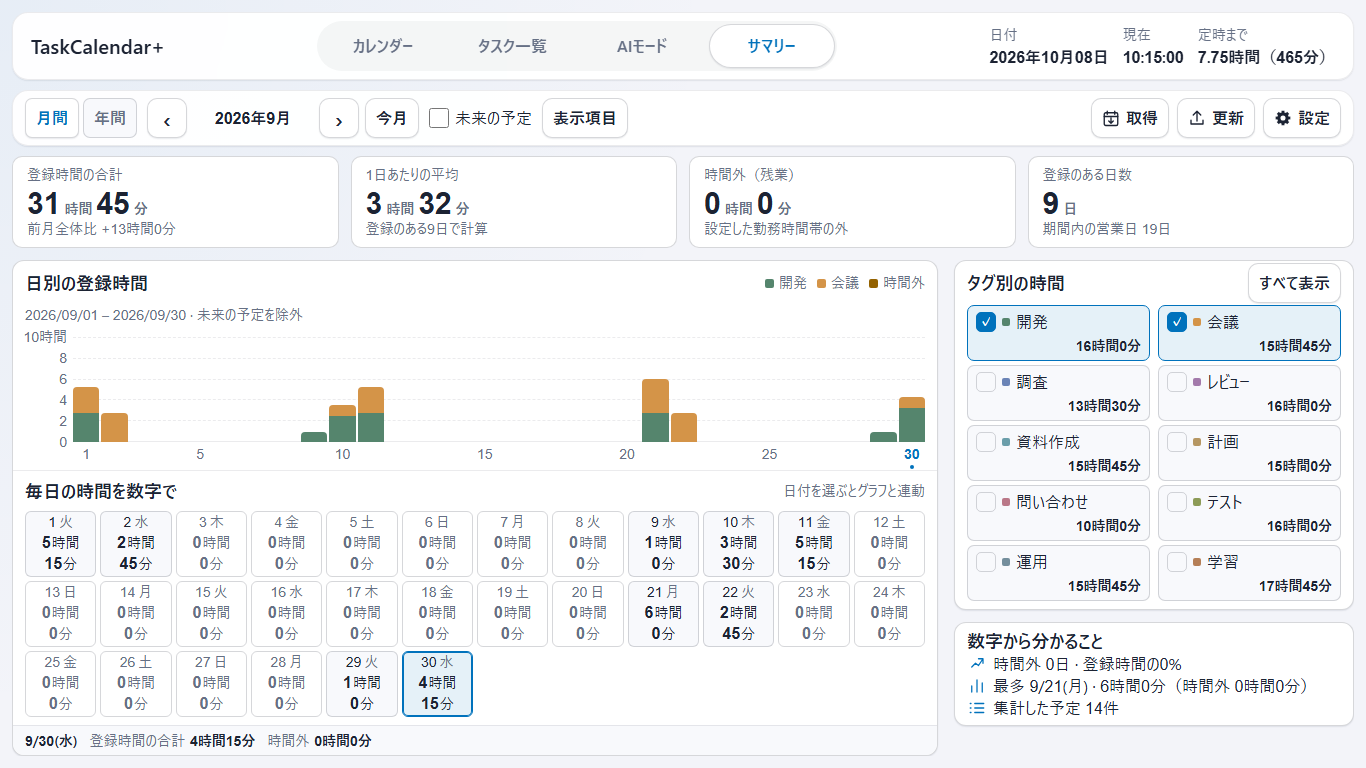
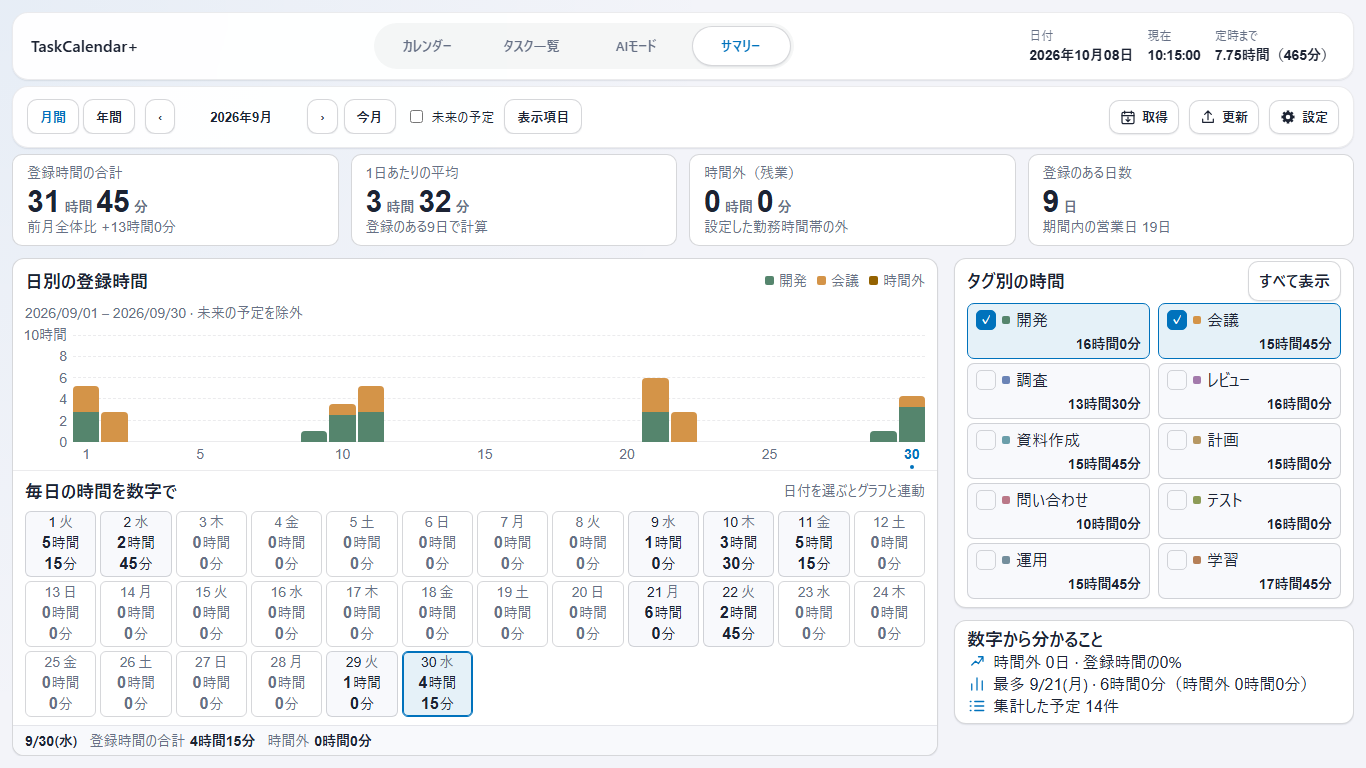
fix: share existing navigation and toolbar sizing in summary

diff --git a/src-tauri/renderer/assets/summary.css b/src-tauri/renderer/assets/summary.css
@@ -1,33 +1,20 @@
-/* Summary owns its scale; other views and global dialogs keep their existing tokens. */
-.container:has(.summaryView:not([hidden])) { grid-template-rows: auto auto minmax(0,1fr); gap: 10px; }
-body:has(.summaryView:not([hidden])) .header { min-height: 68px; padding: 8px 18px; }
-body:has(.summaryView:not([hidden])) .brand h1 { font-size: 20px; }
-body:has(.summaryView:not([hidden])) .headerNavigation > .nav { width: 520px; flex-basis: 520px; grid-template-columns: repeat(4,minmax(0,1fr)); padding: 3px; gap: 4px; }
-body:has(.summaryView:not([hidden])) .nav a { height: 44px; min-height: 44px; padding: 0 10px; font-size: 16px; }
-body:has(.summaryView:not([hidden])) .clock .k, body:has(.summaryView:not([hidden])) .externalLinks a { font-size: 14px; }
-body:has(.summaryView:not([hidden])) .clock .v { font-size: 16px; }
-.summaryView { --font-body: 16px; --font-caption: 14px; --font-section: 18px; --summary-inset: 12px; font-size: 16px; line-height: 1.4; }
+/* Larger typography belongs to Summary content, not the shared application shell. */
+.summaryView { --summary-inset: 12px; }
+.summaryScreen, .summaryOptions { --font-body: 16px; --font-caption: 14px; --font-section: 18px; font-size: 16px; line-height: 1.4; }
 .summaryView:not([hidden]) { display: contents; }
 .summaryView, .summaryView * { box-sizing: border-box; }
 .summaryView [hidden] { display: none !important; }
 .summaryView .srOnly { position: absolute; width: 1px; height: 1px; padding: 0; margin: -1px; overflow: hidden; clip-path: inset(50%); white-space: nowrap; border: 0; }
 .summaryView button, .summaryView select { font-family: inherit; }
 .summaryView button:focus-visible { outline: 2px solid var(--accent-strong); outline-offset: 2px; }
-.summaryView .btn { min-height: 40px; padding: 6px 10px; line-height: 24px; font-size: 16px; white-space: nowrap; }
-.summaryToolbar { height: 56px; min-height: 56px; margin: 0; padding: 7px 12px; gap: 12px; }
-.summaryToolbar .left { overflow: visible; gap: 10px; }
-.summaryToolbar .right, .summaryToolbar .toolbarActions { gap: 8px; }
-.summaryToolbar .right .btn { height: 40px; min-height: 40px; font-size: 16px; line-height: 24px; padding: 6px 10px; }
-.summaryToolbar .toolbarIconButton svg { width: 18px; height: 18px; }
-.summarySegment { display: flex; gap: 4px; height: 40px; }
-.summarySegment button { height: 40px; min-height: 40px; border: 1px solid var(--border-strong); border-radius: 7px; padding: 0 10px; color: var(--muted); background: var(--panel2); font-size: 16px; font-weight: 600; line-height: 24px; cursor: pointer; white-space: nowrap; }
+.summaryScreen .btn, .summaryOptions .btn { min-height: 40px; padding: 6px 10px; line-height: 24px; font-size: 16px; white-space: nowrap; }
+.summarySegment { display: flex; gap: 4px; }
 .summarySegment button[aria-pressed="true"] { background: var(--panel); color: var(--accent-strong); box-shadow: var(--shadow-sm); }
 .summaryPeriodNav { display: flex; align-items: center; gap: 6px; flex-shrink: 0; }
-.summaryPeriodNav > strong { min-width: 120px; text-align: center; font-size: 16px; line-height: 24px; white-space: nowrap; }
-.summaryPeriodNav [data-summary-shift] { width: 40px; padding: 0; font-size: 24px; }
-.summaryFuture { display: flex; align-items: center; gap: 6px; font-size: 16px; white-space: nowrap; cursor: pointer; min-height: 40px; }
-.summaryView input[type="checkbox"] { width: 20px; height: 20px; accent-color: var(--accent); margin: 0; flex-shrink: 0; }
-.summaryScreen { grid-row: 3; min-width: 0; min-height: 0; display: flex; flex-direction: column; gap: 12px; overflow-y: auto; }
+.summaryPeriodNav > strong { min-width: 120px; text-align: center; white-space: nowrap; }
+.summaryFuture { display: flex; align-items: center; gap: 6px; white-space: nowrap; cursor: pointer; }
+.summaryScreen input[type="checkbox"], .summaryOptions input[type="checkbox"] { width: 20px; height: 20px; accent-color: var(--accent); margin: 0; flex-shrink: 0; }
+.summaryScreen { grid-row: 3; margin-top: 6px; min-width: 0; min-height: 0; display: flex; flex-direction: column; gap: 12px; overflow-y: auto; }
 .summaryScreen:has(.summaryNotice:not([hidden])) .summaryContent { flex: 0 0 auto; min-height: 520px; }
 .summaryNotice { display: flex; align-items: center; justify-content: space-between; gap: 12px; padding: 8px 12px; border: 1px solid var(--danger); border-radius: 8px; background: var(--panel); flex-shrink: 0; }
 .summaryNotice p { font-size: 16px; margin: 0; }
@@ -127,9 +114,6 @@ body:has(.summaryView:not([hidden])) .clock .v { font-size: 16px; }
 /* Smaller or magnified windows retain readable text and accessible controls. */
 @media (max-width:1199px), (max-height:739px) {
   .container:has(.summaryView:not([hidden])) { overflow: auto; height: 100%; grid-template-rows: auto auto auto; }
-  .summaryToolbar { height: auto; min-height: 56px; flex-wrap: wrap; }
-  .summaryToolbar .left { flex-wrap: wrap; width: auto; }
-  .summaryToolbar .right { margin-left: auto; }
   .summaryScreen { min-height: 640px; }
 }
 @media (max-width:1199px) {
@@ -140,14 +124,10 @@ body:has(.summaryView:not([hidden])) .clock .v { font-size: 16px; }
   .summaryChart { min-height: 210px; }
   .summaryNumberGrid { grid-template-columns: repeat(10,minmax(0,1fr)); }
   .summaryMetrics { grid-auto-flow: row; grid-template-columns: repeat(2,minmax(0,1fr)); }
-  body:has(.summaryView:not([hidden])) .header { flex-wrap: wrap; }
-  body:has(.summaryView:not([hidden])) .headerNavigation { order: 3; flex-basis: 100%; }
-  body:has(.summaryView:not([hidden])) .headerNavigation > .nav { width: 100%; flex-basis: 100%; }
 }
 @media (max-width:600px) {
   .summaryTagList { grid-template-columns: 1fr; }
   .summaryNumberGrid { grid-template-columns: repeat(4,minmax(0,1fr)); }
   .summaryNumberGrid.year { grid-template-columns: repeat(3,minmax(0,1fr)); }
   .summaryNumbersHeading { flex-wrap: wrap; }
-  body:has(.summaryView:not([hidden])) .nav a { padding: 0 4px; }
 }

diff --git a/src-tauri/renderer/assets/app.html b/src-tauri/renderer/assets/app.html
@@ -322,8 +322,8 @@
         <section class="toolbar summaryToolbar" aria-label="サマリー" data-i18n-attrs="aria-label=summary.title">
           <div class="left summaryToolbarControls">
             <div class="summarySegment" role="group" aria-label="期間" data-i18n-attrs="aria-label=summary.periodLabel">
-              <button type="button" data-summary-period="month" aria-pressed="true" data-i18n="summary.month"></button>
-              <button type="button" data-summary-period="year" aria-pressed="false" data-i18n="summary.year"></button>
+              <button class="btn" type="button" data-summary-period="month" aria-pressed="true" data-i18n="summary.month"></button>
+              <button class="btn" type="button" data-summary-period="year" aria-pressed="false" data-i18n="summary.year"></button>
             </div>
             <div class="summaryPeriodNav">
               <button class="btn" type="button" data-summary-shift="-1" aria-label="前の期間" data-i18n-attrs="aria-label=summary.previous">‹</button>

diff --git a/docs/reviews/summary-readable.md b/docs/reviews/summary-readable.md
@@ -1,14 +1,14 @@
 # サマリーの読みやすさと操作バー（未リリース）
 
-対象はサマリー画面。上部の画面切替タブと「取得・更新・設定」の操作バーを揃え、文字と部品を拡大した。ユーザーの「元の配置に戻して、大きさはこんな感じでいい」という訂正に合わせ、左にグラフと数字、右にタグと要約を戻した。他の3画面と共通設定ダイアログの本文サイズは変更しない。
+対象はサマリー画面。上部の画面切替タブと「取得・更新・設定」の操作バーは既存の共通スタイルをそのまま使用する。拡大するのはサマリー本文と表示項目ダイアログの文字・部品。左にグラフと数字、右にタグと要約という元の配置を保った。他の3画面と共通設定ダイアログの本文サイズは変更しない。
 
 ## 変更した内容
 
 | 項目 | 変更前 | 今回の変更 |
 |---|---|---|
-| 主な文字・操作 | タグ名11pxなど | 本文・操作16px、主要数値30px |
+| 主な文字・操作 | タグ名11pxなど | サマリー本文内の文字・操作16px、主要数値30px |
 | 補足・日付・単位 | 8〜11pxが多数 | 14px以上 |
-| 操作バー | サマリー固有の歯車だけ | 共通の取得・更新・設定を復元し、40px以上の操作領域 |
+| 共通タブ・操作バー | サマリー固有の歯車だけ | 取得・更新・設定を復元し、寸法・文字サイズを既存3画面と統一 |
 | 日別の数字 | 16列でグラフ下へ配置 | グラフ下を維持し、12列×3行。日付・曜日と時間・分を同時表示 |
 | 年間の数字 | 12個を横並び | グラフ下に6列×2行。月を選ぶと日別へ移動 |
 | タグ | 右の領域 | 右側の2列を維持。名前と時間を上下に表示 |
@@ -34,17 +34,17 @@
 
 ## 確認条件と限界
 
-今回の配置修正後は、サマリーの操作・読みやすさ・整列を検査する3スイートが合格。HTML/CSSと配置の回帰テストが変更範囲であり、集計やネイティブ処理は変更していない。修正前の78ebedeではNode47スイート・Rust231件・構文検査58ファイル・Clippyが合格していたが、今回Rustを再実行した結果ではない。画像と検証範囲は[検証記録](summary-readable-evidence.json)に保存した。
+今回の共通UI統合後は、サマリーの操作・読みやすさ・整列を検査する3スイートが合格。HTML/CSSと配置の回帰テストが変更範囲であり、集計やネイティブ処理は変更していない。修正前の78ebedeではNode47スイート・Rust231件・構文検査58ファイル・Clippyが合格していたが、今回Rustを再実行した結果ではない。画像と検証範囲は[検証記録](summary-readable-evidence.json)に保存した。
 
 - 1280×800・1366×768で、31日・10タグ・指標4個とグラフを、通常時はスクロールなしで表示する。
 - 文字サイズの下限、実際の文字領域の欠け、操作部の重なり、パネル間の重なりを計測する。23時間59分の表示と選択連動も確認する。
 - 9言語の月間・年間と、長い翻訳がある狭い条件を確認する。名前が長いタグは文字を縮めず、省略表示と完全な名前のツールチップ・読み上げ名で扱う。
 - 小さい表示領域、再取得エラー中、クイックリンクで上部が高くなる場合は、縦スクロールで操作を保つ。文字を縮めて一画面へ押し込まない。1024×640、1000×800、800×600でパネルの非重複と日付・タグへの操作到達を確認する。
-- 取得・更新・設定の画面が開くこと、他の3画面へ戻ったときの文字サイズ・位置が変更前へ戻ることを検証する。
+- 取得・更新・設定の画面が開くことを確認。1366・1280・1000px幅で4画面を切り替え、サマリー表示中もヘッダー・タブ・操作バー・共通ボタンの寸法・文字サイズ・内側余白が一致することを確認した。専用CSSが残る修正前では失敗し、削除後に成功した。
 - 元の配置を保つ回帰テストで、左のグラフの下に数字があり、右のタグの下に要約があることを検査する。内側の数字領域と親パネルの包含を許可し、別パネル同士の重なりは引き続き検出する。
 - 配置修正後、別担当が元のHTML・差分・4枚の画像と画像のソース識別値を確認し、重大な指摘はなかった。別担当による試験の再実行や実アプリ検証は行っていない。
 
-実アプリの起動、実機倍率、実Outlook・実AI・インストール更新は未確認。バージョン変更・mainへのマージ・リリースは、この変更では行っていない。
+開発版EXEを起動し、ウィンドウの存在・プロセスの応答と、最新CSSが配信されていることを確認した。実ウィンドウ内の描画・操作、実機倍率、実Outlook・実AI・インストール更新は未確認。バージョン変更・mainへのマージ・リリースは、この変更では行っていない。
 
 検証用の主要コマンド:
 

diff --git a/docs/superpowers/plans/2026-10-24-summary-readable-ui.md b/docs/superpowers/plans/2026-10-24-summary-readable-ui.md
@@ -4,7 +4,7 @@
 
 **Goal:** Rebuild the Summary screen at a readable scale and restore the upper page tabs and shared application action bar.
 
-**Architecture:** Keep the existing Store aggregation and state behavior. Reuse the shared toolbar template without the sidebar action on Summary. Scope larger typography and shell adjustments to the active Summary view; other views retain their present sizing. Preserve the original arrangement: chart and numeric dates in one panel on the left, tags above insights on the right.
+**Architecture:** Keep the existing Store aggregation and state behavior. Reuse the shared toolbar template without the sidebar action on Summary. Use existing shared shell styles for all views; larger typography belongs only to Summary content and its options dialog. Preserve the original arrangement: chart and numeric dates in one panel on the left, tags above insights on the right.
 
 **Tech Stack:** Existing vanilla HTML/CSS/JavaScript, nine locale catalogs and isolated Chromium harness.
 
@@ -12,16 +12,18 @@
 
 ## Design choices
 
-- Use 16px for primary Summary text/actions, at least 14px for supporting text, axis labels, weekdays and time units; use 30px metric values and 18px section headings. These are implementation choices proposed in conversation, not user-specified exact dimensions.
+- Use 16px for primary Summary content text/actions, at least 14px for supporting text, axis labels, weekdays and time units; use 30px metric values and 18px section headings. Shared navigation and toolbar retain existing shared sizing. These are implementation choices, not user-specified exact dimensions.
 - Following the user's explicit correction, restore numeric dates below the chart inside the original left panel. Use 12 columns for all 28–31 dates and six columns for all 12 months to retain enlarged text. Keep hours and minutes explicit on separate lines. Dates remain selectable and annual cells still open the selected month.
 - Restore tags above the derived insights on the right. Keep all four components visible at the standard desktop targets with 10 tags. Tag names and durations use separate lines. The rejected chart/tag-left and numbers/insights-right arrangement is superseded, not an accepted design.
 - Restore shared Outlook acquisition, update and settings actions, with one working settings trigger. Omit the sidebar toggle because the user selected upper bars rather than a left sidebar.
-- Retain the existing four navigation tabs and enlarge them only while Summary is active. Avoid global changes to other views or global settings dialogs.
+- Retain the existing four navigation tabs at the same size in every view. No Summary-only header, navigation or toolbar overrides. Do not enlarge shared controls through inherited custom properties.
 - Aim for no page scrolling at 1280×800 and 1366×768, standard CSS scale. For smaller/zoomed windows allow scrolling rather than hide controls or reduce text below the stated floor.
 
 ## Constraints
 
 **2026-10-24 correction:** User: 「これはひどい、元の配置に戻して、大きさはこんな漢字でいい」. Restore spatial grouping while keeping the enlarged text, controls, upper tabs and shared action bar. This is a layout correction, with no aggregation or release change.
+
+**Subsequent correction:** User: 「上のタブ切り替えボタンの大きさがほかのタブと変わったらダメ」「ツールバーについてもそう」. The former Summary-only shell enlargement is superseded. Preserve the shared shell while enlarging only the screen content. Test dimensions during Summary activation, not merely after leaving it.
 
 - No aggregation changes, new AI calls, live Outlook calls, native app/WebView2/Edge launch, schema migration, version bump, release, or main merge.
 - No change to task data. Use synthetic data/API/native bridge for UI tests and screenshots.
@@ -34,7 +36,7 @@
 1. Restored toolbar actions must actually work, with no duplicate settings handlers or no-op sidebar button.
 2. 31 dates, 10 tags, four metrics and long durations must fit with visible time units at the typography floor.
 3. Long translations and multiple selected tag names must not collide with period controls or application actions.
-4. Leaving Summary must restore the shared header's original sizing and preserve other views' appearance/behavior.
+4. Shared header/navigation/toolbar dimensions must remain identical while Summary is active and after leaving it. Preserve other views' appearance/behavior.
 5. Larger controls must preserve graph/day synchronization, keyboard focus, tag paging, errors and settings persistence.
 
 ## Tasks

diff --git a/CHANGELOG.md b/CHANGELOG.md
@@ -2,8 +2,8 @@
 
 ## [Unreleased]
 
-- サマリーの本文・操作を16px、補足・日付・単位を14px以上へ拡大。元の配置を保ち、左にグラフと日別・月別の数字、右にタグと要約を表示。
-- サマリーに共通の「取得・更新・設定」操作バーを復元。他画面の文字サイズ・配置は維持。
+- サマリー本文内の文字・操作を16px、補足・日付・単位を14px以上へ拡大。元の配置を保ち、左にグラフと日別・月別の数字、右にタグと要約を表示。
+- サマリーに共通の「取得・更新・設定」操作バーを復元。タブ・ヘッダー・操作バーは既存の共通スタイルを使用し、画面切替による寸法の変化を解消。
 - 31日・10タグの標準画面、小さい表示領域、再取得エラー、多言語での読みやすさと操作到達性を検証。
 
 ## [4.0.0] - 2026-10-23
